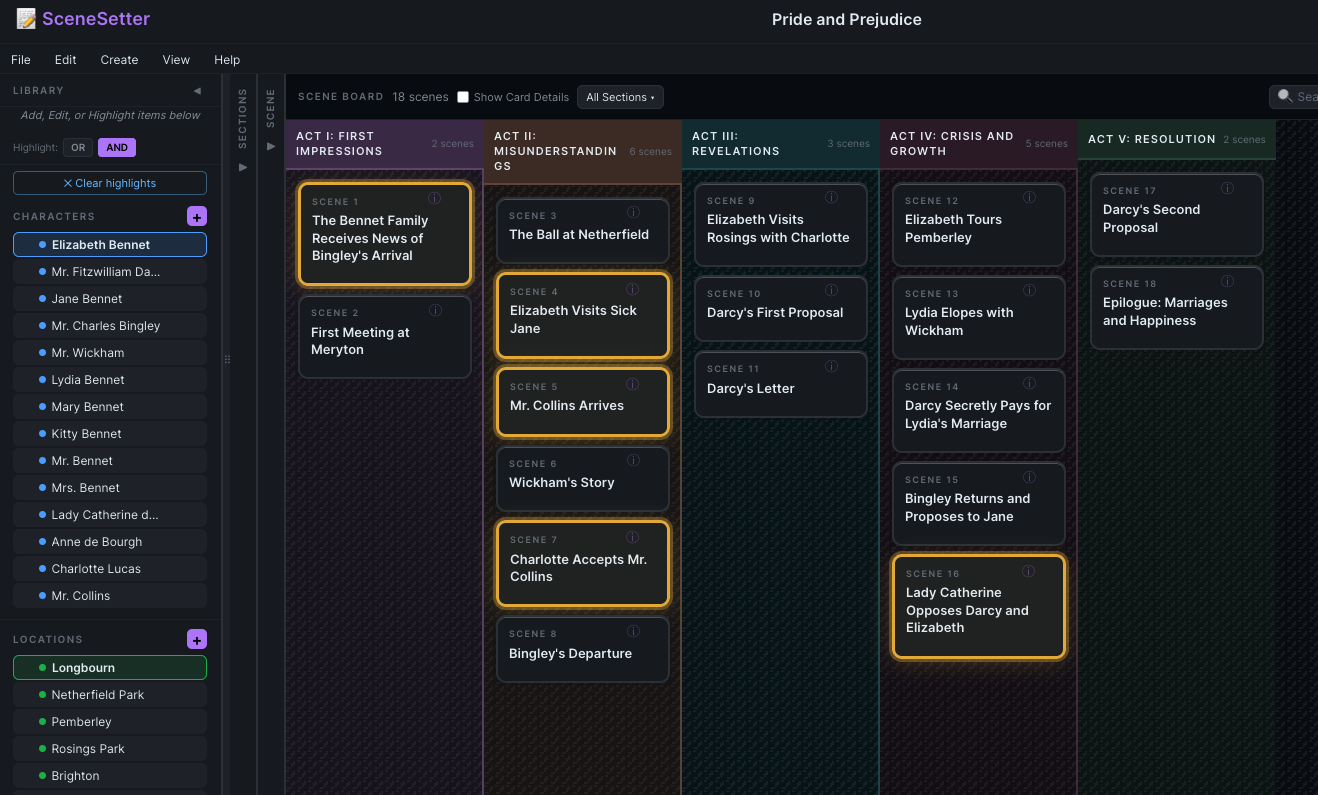
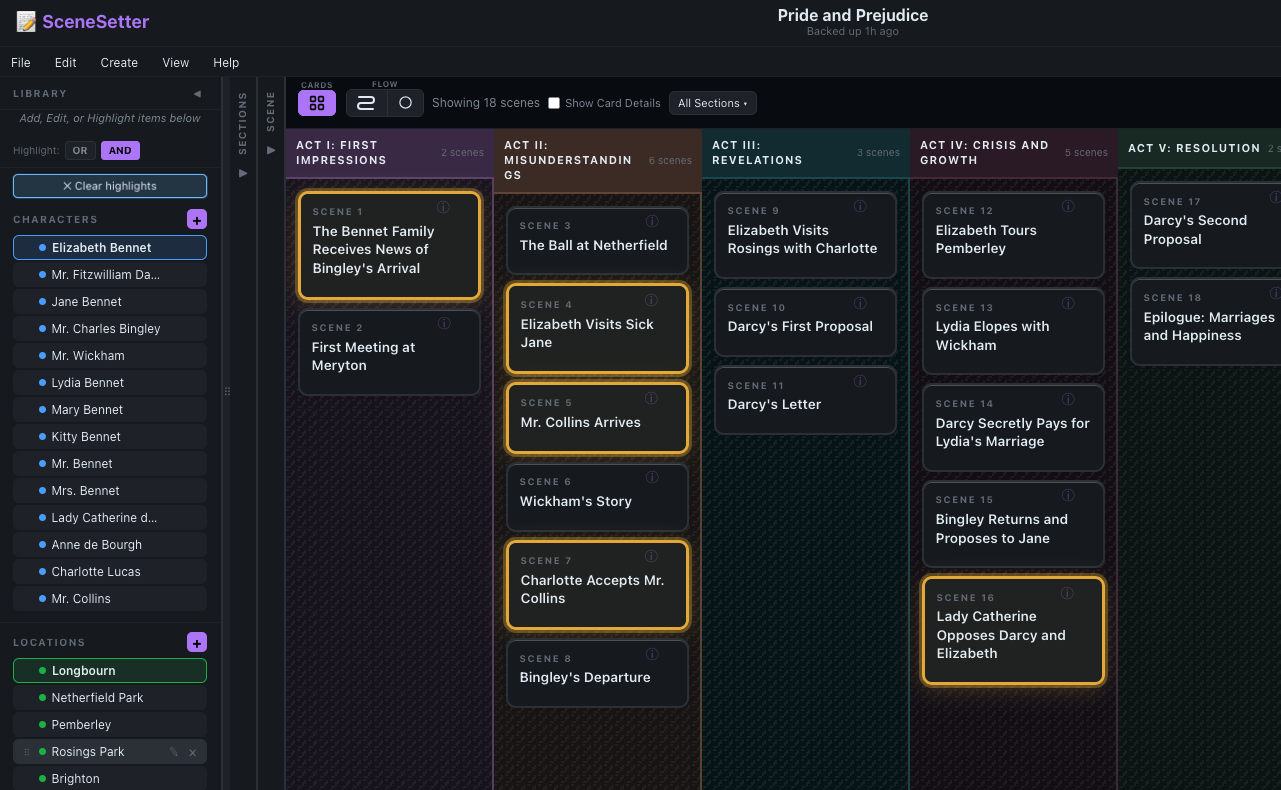
Overview/tutorial cleanup, help-mode zone fixes
- Overview: swap in the updated Scene Board/Search screenshots, drop the
  "Ready to start? Launch SceneSetter" CTA (opening a second tab isn't
  what we want — users should go back to the tab that got them here),
  and reword the Scene Flow Chart blurb where "searching" read as
  misplaced in the highlighting sentence.
- Help mode: clamp each highlight box to the viewport — a full-width row
  (menu bar, panel header) was getting a box a few px wider than the
  window on both sides from the padding added around every zone,
  visibly overflowing it.
- Help mode: drop the full-row "Scene Board"/"Scene Flow Chart toolbar"
  catch-all tips now that every control inside them already has its own
  specific tip (view switch, word count, trace, section filter, search,
  zoom, etc.) — the blanket tip was redundant and, combined with the
  overflow above, made the row read as one broken highlight instead of
  clearly identifying each control.

diff --git a/ui.js b/ui.js
@@ -92,8 +92,6 @@ const HELP_ZONES = [
   { sel: '.sp-add-row',      tip: 'Add Section — type a name and press + (or Enter) to create a new section.' },
   { sel: '.sp-qs',           tip: 'Quick Setup — rapidly create multiple numbered sections at once (e.g. "Act 1, Act 2, Act 3").' },
   { sel: '#cp .tabs',        tip: 'Scene panel — New Scene creates a scene; Edit Scene (enabled when a card is selected) lets you modify it. Enter a title, summary, section, library tags, and notes. Use ◀ or drag the panel edge to hide or resize.' },
-  { sel: '#sbhdr',           tip: 'Scene Board — the main workspace. Scenes are arranged by section. Drag cards to reorder them. Click a card to select it; click multiple cards to select them together and move them as a group.' },
-  { sel: '#chart-toolbar',   tip: 'Scene Flow Chart toolbar — switch chart layouts, size scenes by word count, trace a library category, filter sections, and print.' },
   { sel: '#sbcnt',           tip: 'Scene count — shows how many scenes are currently visible (may be fewer when a section filter is active).' },
   { sel: '#clrsel',          tip: 'Clear Selection — deselects all currently selected scene cards on the board.' },
   { sel: '#det-toggle',      tip: 'Show Card Details — toggle to show or hide library tags (POV, characters, locations, themes, misc) printed on each card.' },
@@ -132,12 +130,19 @@ function openHelp() {
     if (!el) return;
     const r = el.getBoundingClientRect();
     if (r.width < 2 && r.height < 2) return;
+    // Clamped to the viewport — an edge-to-edge row (the menu bar, a panel
+    // header) would otherwise get a highlight box a few px wider than the
+    // window on each side from the +6 padding below, visibly overflowing it.
+    const left   = Math.max(0, r.left - 3);
+    const top    = Math.max(0, r.top  - 3);
+    const right  = Math.min(window.innerWidth,  r.right  + 3);
+    const bottom = Math.min(window.innerHeight, r.bottom + 3);
     const div = document.createElement('div');
     div.className = 'help-zone';
-    div.style.left   = (r.left   - 3) + 'px';
-    div.style.top    = (r.top    - 3) + 'px';
-    div.style.width  = (r.width  + 6) + 'px';
-    div.style.height = (r.height + 6) + 'px';
+    div.style.left   = left + 'px';
+    div.style.top    = top + 'px';
+    div.style.width  = (right - left) + 'px';
+    div.style.height = (bottom - top) + 'px';
     div.addEventListener('mouseenter', () => showHelpTip(zone.tip, r));
     div.addEventListener('mouseleave', hideHelpTip);
     div.addEventListener('click', e => { e.stopPropagation(); closeHelp(); });

diff --git a/overview.html b/overview.html
@@ -66,7 +66,7 @@
 
       <div class="overview-card">
         <h3>Scene Flow Chart</h3>
-        <p>See your whole story as one continuous ribbon of scenes — winding into a snake or wrapped into a circle — so you can spot pacing, gaps, and structure at a glance. Switch to it anytime with the Cards/Snake/Circle icons in the board header. Section boundaries are marked automatically (hover a badge or wedge for its name), and clicking a character, POV name, or searching highlights matching scenes right in the chart, just like on the board. Click any scene to jump back to its card. Optionally size each scene's segment by its word count instead of splitting evenly, to spot unusually long or short scenes at a glance.</p>
+        <p>See your whole story as one continuous ribbon of scenes — winding into a snake or wrapped into a circle — so you can spot pacing, gaps, and structure at a glance. Switch to it anytime with the Cards/Snake/Circle icons in the board header. Section boundaries are marked automatically (hover a badge or wedge for its name). Click a character or POV name in the Library, or type in Search, and matching scenes highlight right in the chart, just like on the board. Click any scene to jump back to its card. Optionally size each scene's segment by its word count instead of splitting evenly, to spot unusually long or short scenes at a glance.</p>
         <div style="display:flex;gap:8px;margin-top:12px;flex-wrap:wrap;justify-content:center">
           <img src="images/overview-snake.png" alt="Scene flow chart, snake layout, showing lettered section badges and characters traced through the ribbon" style="width:49%;height:auto;cursor:pointer;border-radius:4px;border:1px solid #ccc" id="ov-img-flowchart-1">
           <img src="images/overview-circle.png" alt="Scene flow chart, circle layout, showing sections as pie-slice wedges and characters traced through the ring" style="width:49%;height:auto;cursor:pointer;border-radius:4px;border:1px solid #ccc" id="ov-img-flowchart-2">
@@ -95,11 +95,6 @@
         <li><strong>Import</strong> to recover lost work, roll back to an earlier version, or move a project to a different browser or computer.</li>
         <li><strong>No fear of mix-ups</strong> — SceneSetter checks the timestamp on every import and warns you before letting an older file overwrite newer work.</li>
       </ul>
-    </div>
-
-    <div class="overview-cta">
-      <h3>Ready to start?</h3>
-      <a href="projects.html" class="pm-btn pm-btn-primary" style="text-decoration:none;display:inline-block;padding:10px 28px;font-size:14px">Launch SceneSetter</a>
     </div>
 
   </div>

diff --git a/styles.css b/styles.css
@@ -567,8 +567,6 @@ button:focus-visible,a:focus-visible,[tabindex]:focus-visible{outline:2px solid 
 .overview-img{max-width:100%;border-radius:8px;border:1px solid var(--s1);cursor:pointer;transition:transform .14s,box-shadow .14s}
 .overview-img:hover{transform:scale(1.02);box-shadow:0 4px 16px rgba(0,0,0,.12)}
 .overview-img-hint{display:block;font-size:10px;color:var(--o0);margin-top:6px}
-.overview-cta{max-width:680px;margin:40px auto;text-align:center}
-.overview-cta h3{font-size:18px;color:var(--tx);margin-bottom:16px}
 
 /* Overview image modal */
 .overview-modal{display:none;position:fixed;inset:0;background:rgba(0,0,0,.8);z-index:1000;align-items:center;justify-content:center;cursor:pointer}